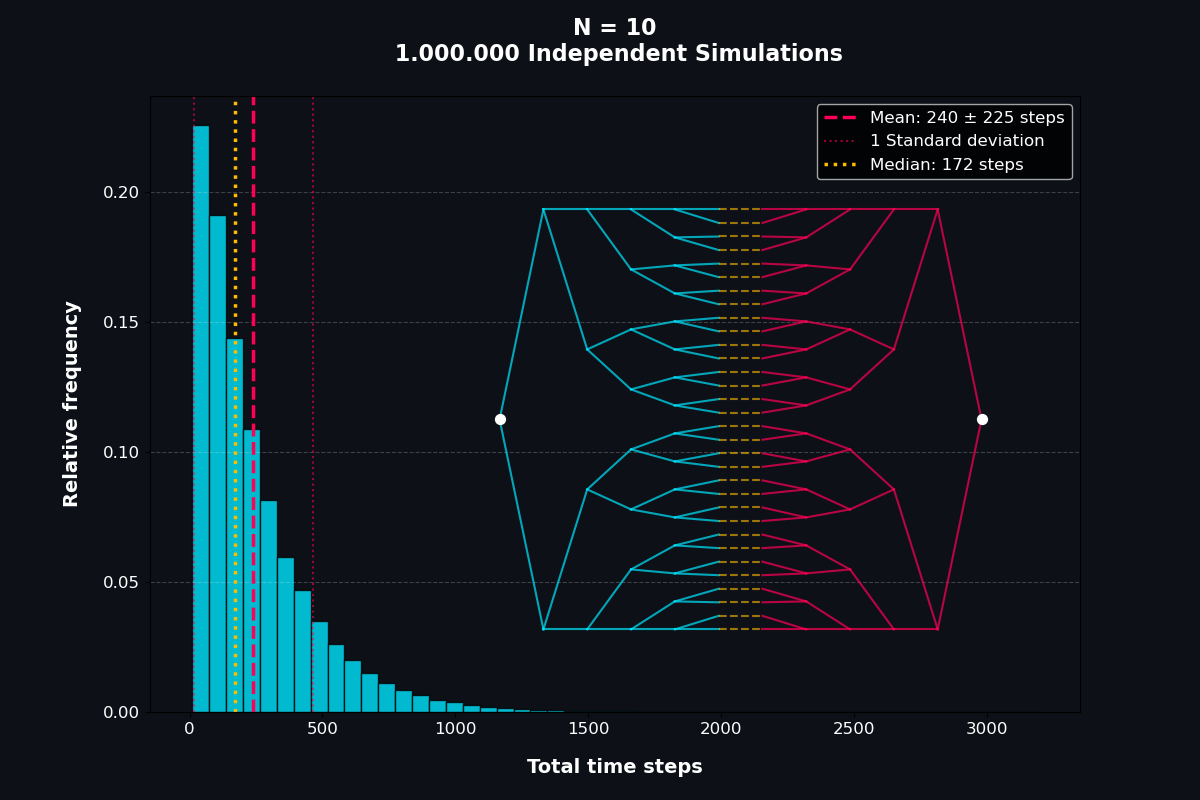
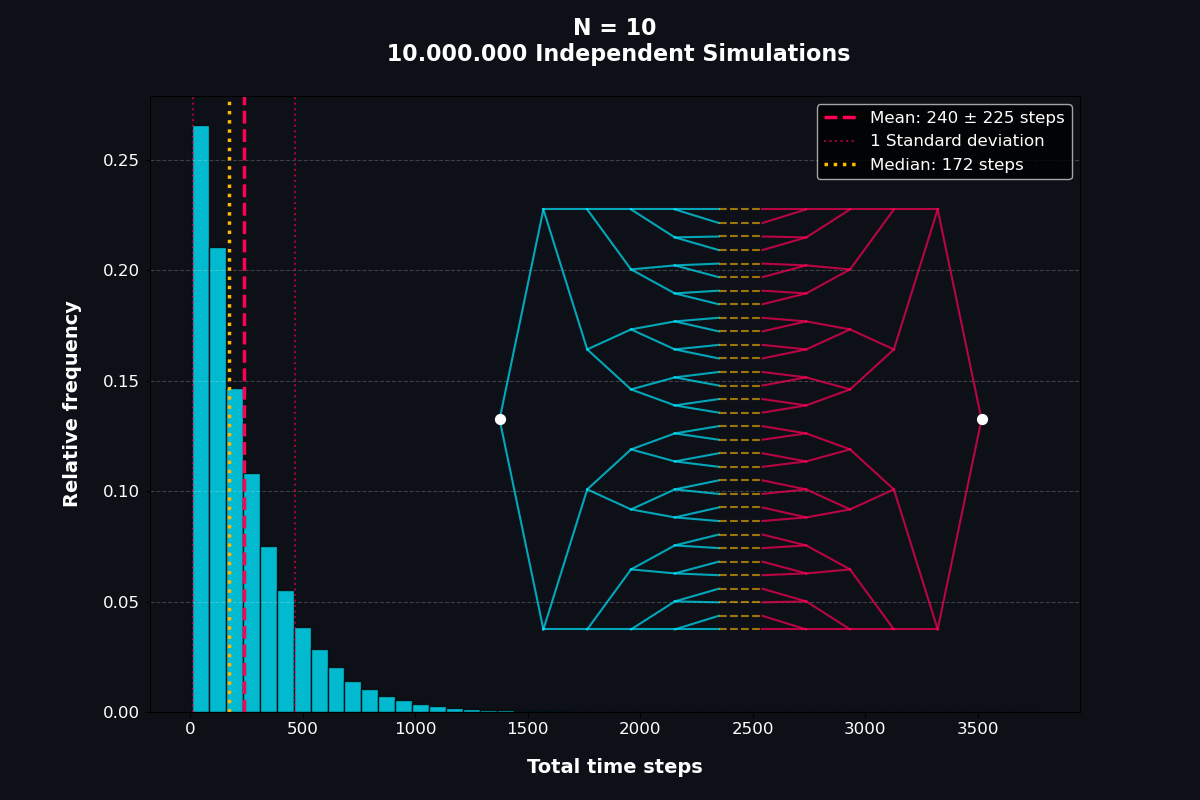
Ready for delivery

diff --git a/opt_code.py b/opt_code.py
@@ -64,9 +64,9 @@ std_times = np.empty(final_depth//2 + 1, dtype=np.float64)  # NUEVO: Array para 
 
 
 if __name__ == "__main__":
-    for depth in range(final_depth, final_depth + 1, 2):
+    for depth in range(2, final_depth + 1, 2):
         total_nodes = 2**(depth // 2 + 1) + 2**(depth // 2) - 2
-        resultados = binary_tree_sim(depth, n_simulaciones, 1, 20)
+        resultados = binary_tree_sim(depth, n_simulaciones, 1, total_nodes)
         
         # Calculamos la media y la desviación estándar para esta profundidad
         mean_times[depth//2] = resultados.mean()